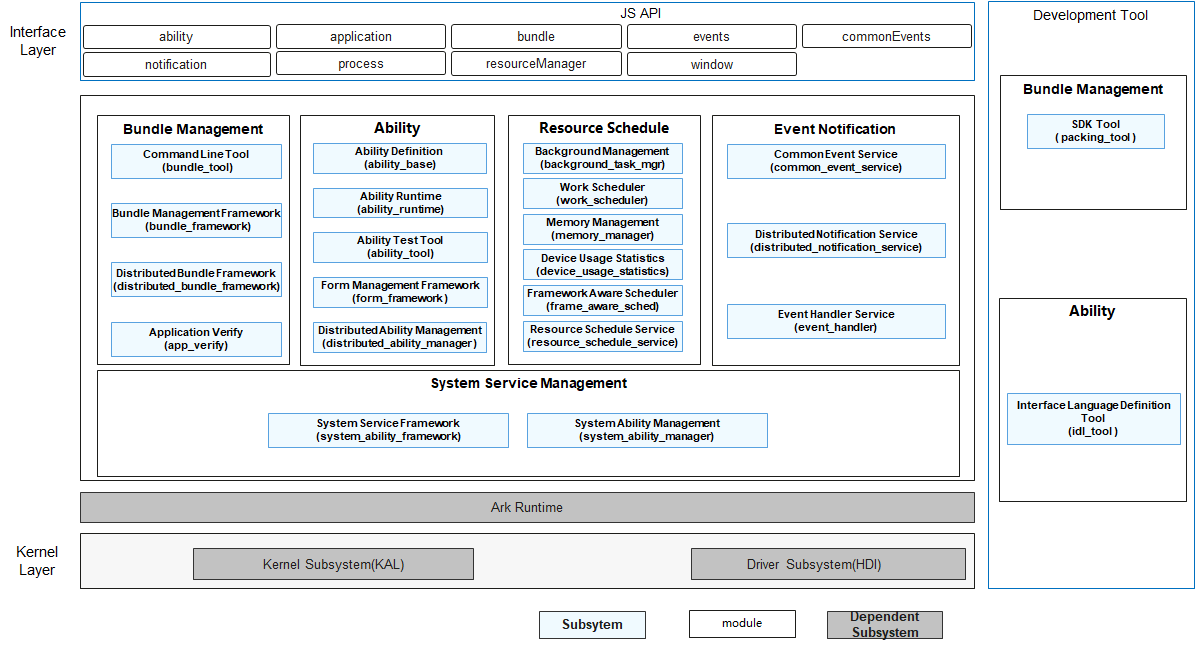
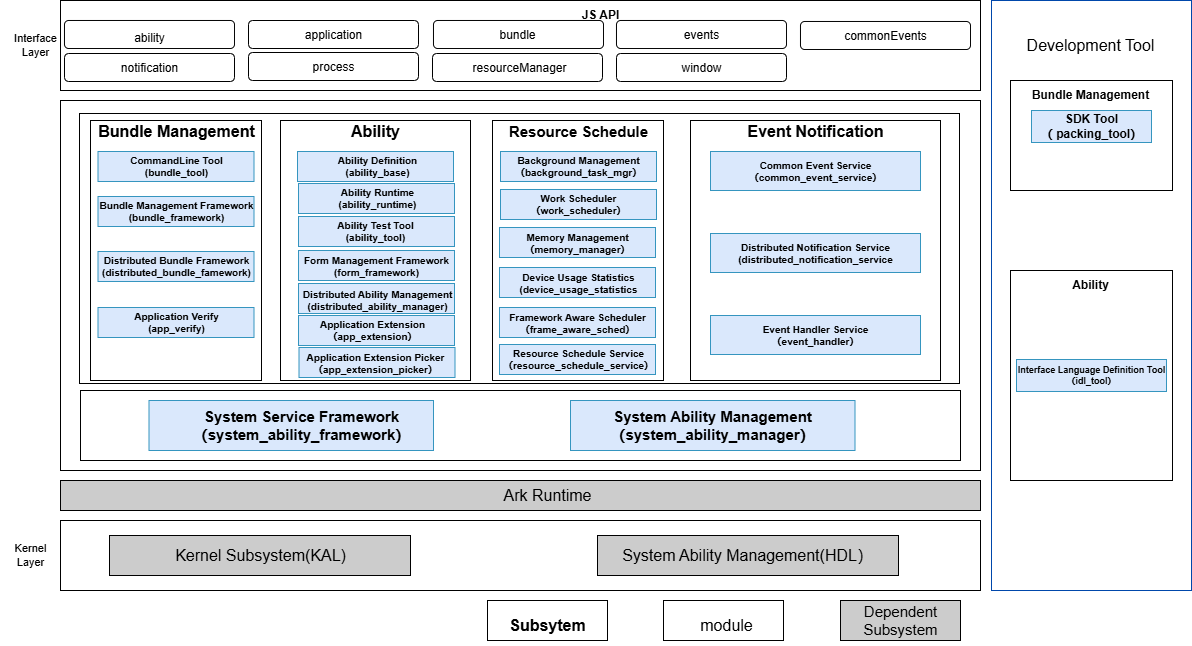
更新文档

diff --git a/sig/sig_appframework/sig_appframework.md b/sig/sig_appframework/sig_appframework.md
@@ -45,6 +45,8 @@ OpenHarmony ApplicationFramework technology stack scope is shown in the followin
 | Resource Schedule Service          | Provides the perception and distribution of system events such as application startup, exit, screen on and off, etc. The grouping of scheduling processes is jointly decided by sensing events, user operations, and background task execution status. | resourceschedule_resource_schedule_service    |
 | Memory Management                  | Based on the life cycle status of the application, update the process recycling priority list, and manage system memory through memory recycling, killing and other means to ensure memory supply. | resourceschedule_memmgr                       |
 | Framework Aware Scheduler          | In order to ensure the cpu scheduling supply, it updates the process scheduling groups and adjust the kernel schedule parameters to influence the kernel scheduling behavior according to the information of the application frame drawing and the application life cycle status. | frame_aware_sched                             |
+| App Extension     | 1. Baseline definitions for image editing application extensions involving drapeability and context definitions; 2. Baseline definitions of other pendant extensions, such as action, etc. | app_extension                             |
+| App Extension Picker     | Support the application of selection boxes, image editing, navigation, finance and other verticals of the unified panel processing logic. | app_extension_picker                             |
 
 
 ## SIG Members

diff --git a/sig/sig_appframework/sig_appframework_cn.md b/sig/sig_appframework/sig_appframework_cn.md
@@ -40,6 +40,8 @@ ApplicationFramework SIG技术栈范围全景图如下图所示：
 | 资源调度服务     | 提供系统事件如应用启动、退出、亮灭屏等的感知和分发，同时，通过感知事件、用户操作、后台任务执行状态等共同决策调度进程的分组。 | resourceschedule_resource_schedule_service    |
 | 内存管理部件     | 基于应用的生命周期状态，更新进程回收优先级列表，并通过内存回收、查杀等手段管理系统内存，保障内存供给。 | resourceschedule_memmgr                       |
 | 智能感知调度     | 通过获取应用的生命周期状态、应用绘帧等信息，调节内核调度参数，从而控制内核调度行为，保障系统进程调度供给。 | frame_aware_sched                             |
+| 应用扩展各垂域基线     | 1、图片编辑应用扩展的基线定义，涉及垂域ability和context定义； 2、其他垂域扩展的基线定义，比如action等。 | app_extension                             |
+| 应用扩展统一面板     | 支撑应用选择框、图片编辑、导航、金融等各垂域的统一面板处理逻辑。 | app_extension_picker                             |
 
 ## SIG组成员
 
